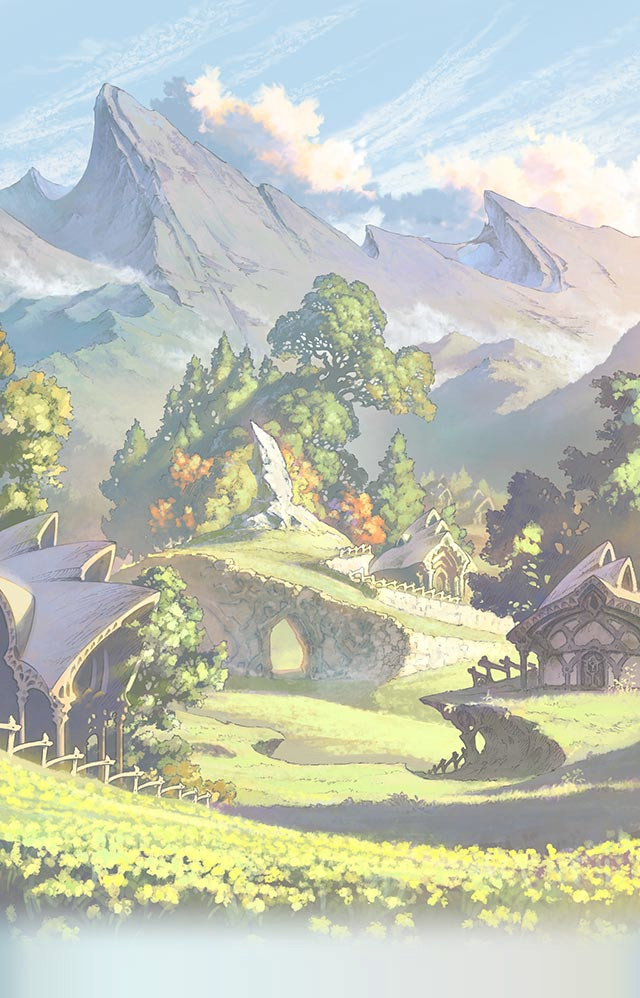
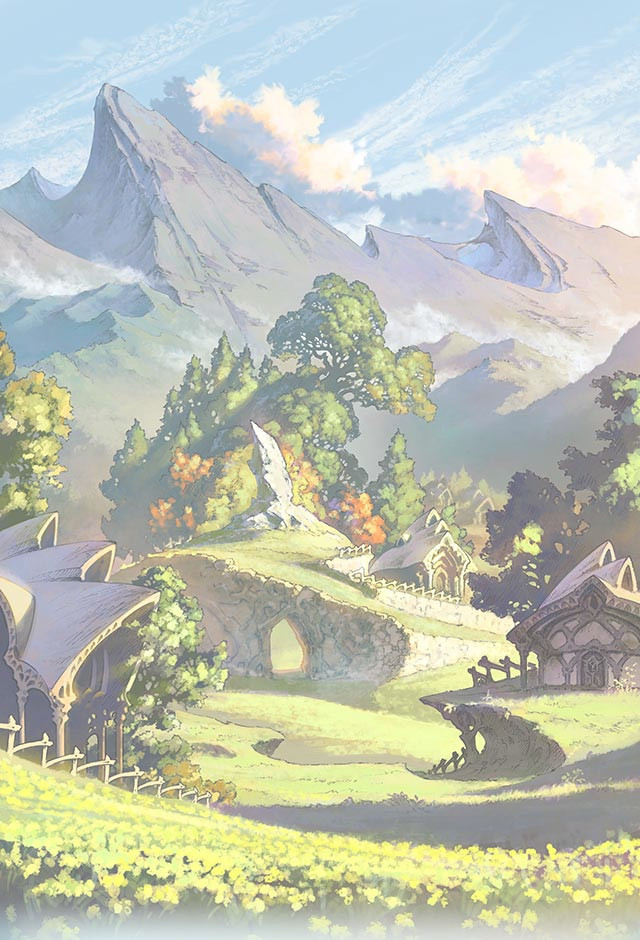
8.14: high quality home preview

diff --git a/js/script.js b/js/script.js
@@ -141,6 +141,7 @@ var previewhome = false; // boolean to keep track of mypage preview
 // initialization
 function init() // entry point, called by body onload
 {
+    loadPreviewSetting();
     openTab('index'); // set to this tab by default
     output = document.getElementById('output'); // set output
     getJSON("json/changelog.json?" + timestamp, initChangelog); // load changelog
@@ -481,17 +482,22 @@ function togglePreview() // toggle mypage preview
 
     homepageElements.forEach(e => {
         if (!previewhome) {
+            e.classList.remove("asset");
             e.classList.remove("homepage");
             e.classList.add("homepage-bg");
+            e.src = e.src.replace('/img_low/', '/img/');
             e.parentNode.classList.add("homepage-ui");
         } else {
             e.classList.remove("homepage-bg");
             e.parentNode.classList.remove("homepage-ui");
+            e.src = e.src.replace('/img/', '/img_low/');
+            e.classList.add("asset");
             e.classList.add("homepage");
         }
     });
 
     previewhome = !previewhome;
+    storePreviewSetting();
 }
 
 // =================================================================================================
@@ -1065,7 +1071,7 @@ function addTextImage(node, className, id, string, unusedA, unusedB) // like add
 }
 
 // =================================================================================================
-// bookmark, history
+// bookmark, history, settings...
 function updateList(node, elems) // update a list of elements
 {
     node.innerHTML = "";
@@ -1153,6 +1159,17 @@ function updateList(node, elems) // update a list of elements
             }
         }
     }
+}
+
+function loadPreviewSetting() // load home page preview button setting
+{
+    let tmp = localStorage.getItem("gbfal-previewhome");
+    if(tmp != null) previewhome = !!JSON.parse(tmp);
+}
+
+function storePreviewSetting() // set home page preview button setting
+{
+    localStorage.setItem("gbfal-previewhome", JSON.stringify(previewhome));
 }
 
 function favButton(state, id = null, search_type = null) // favorite button control
@@ -2404,13 +2421,15 @@ function addImage(div, file, asset, is_home) // add an asset
     };
     img.onload = function() {
         this.classList.remove("loading");
-        this.classList.add("asset");
         if(this.classList.contains("homepage") && previewhome) // toggle state of previewhome is true
         {
             this.classList.remove("homepage");
             this.classList.add("homepage-bg");
+            this.src = this.src.replace('/img_low/', '/img/');
             this.parentNode.classList.add("homepage-ui");
         }
+        else this.classList.add("asset");
+        this.onload = null;
     };
     div.appendChild(ref);
     ref.appendChild(img);

diff --git a/css/style.css b/css/style.css
@@ -345,8 +345,8 @@ img {
 }
 
 .homepage-ui {
-    width: 400px;
-    height: 588.430px;
+    width: 640px;
+    height: 940px;
     white-space: nowrap;
 }
 
@@ -355,17 +355,20 @@ img {
     content: '';
     background: url(../assets/ui/home_ui.png) no-repeat;
     background-size: 100% 100%;
-    width: 400px;
-    height: 588.430px;
+    max-width: 640px;
+    max-height: 940px;
+    width: 640px;
+    width: 640px;
+    height: 940px;
 }
 
 .homepage-bg {
     background: url(../assets/ui/home_bg.jpg) no-repeat;
-    background-size: 400px 588.430px;
-    max-width: 400px;
-    max-height: 588.430px;
-    width: 400px;
-    height: 588.430px;
+    background-size: 640px 940px;
+    max-width: 640px;
+    max-height: 940px;
+    width: 640px;
+    height: 940px;
 }
 
 .link {
@@ -589,25 +592,6 @@ a:active {
     .mypage-btn
     {
         width: 100px;
-    }
-
-    .homepage-ui {
-        width: 605px;
-        height: 890px;
-    }
-
-    .homepage-ui:before {
-        background-size: 100% 100%;
-        width: 605px;
-        height: 890px;
-    }
-
-    .homepage-bg {
-        background-size: 605px 890px;
-        max-width: 605px;
-        max-height: 890px;
-        width: 605px;
-        height: 890px;
     }
 
     .story {

diff --git a/index.html b/index.html
@@ -29,7 +29,7 @@
 <body onload="init()">
     <a href="index.html"><img id="titleheader" src="assets/ui/header.png" alt="header"></a>
     <div id="header">
-        <div>v8.13</div>
+        <div>v8.14</div>
         <div id="timestamp"></div>
     </div>
     <div id="issues" style="display:none">
